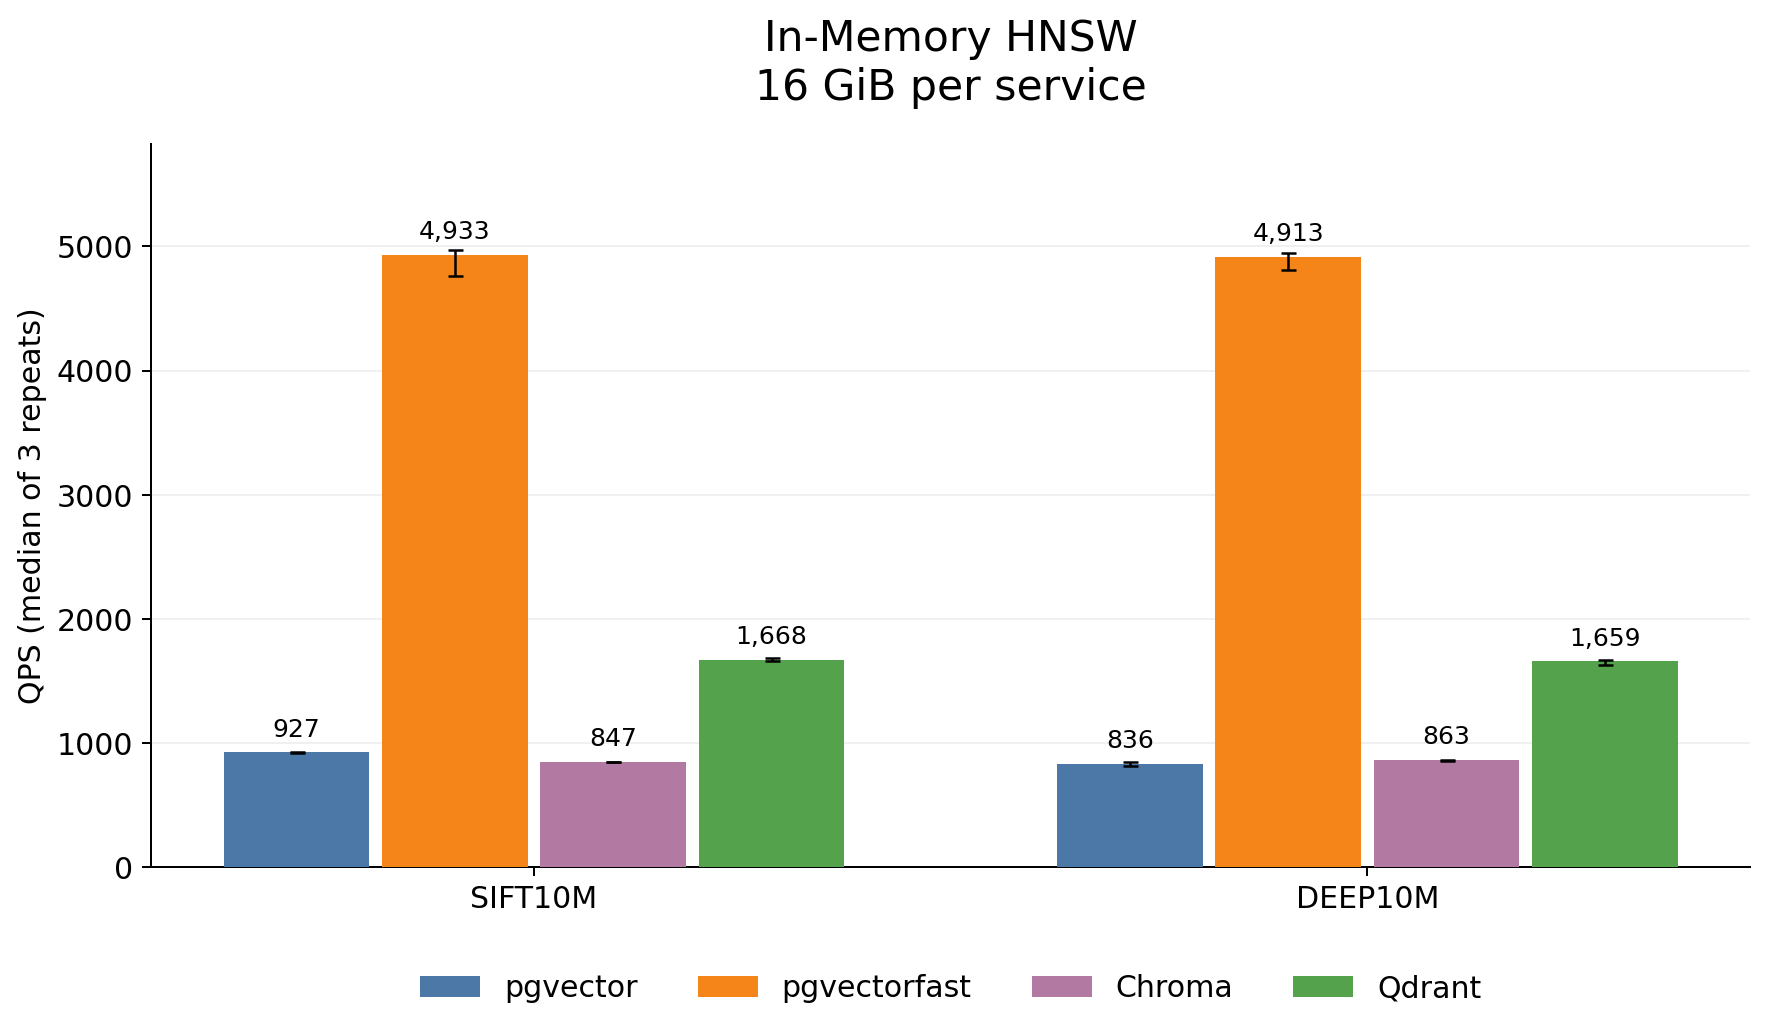
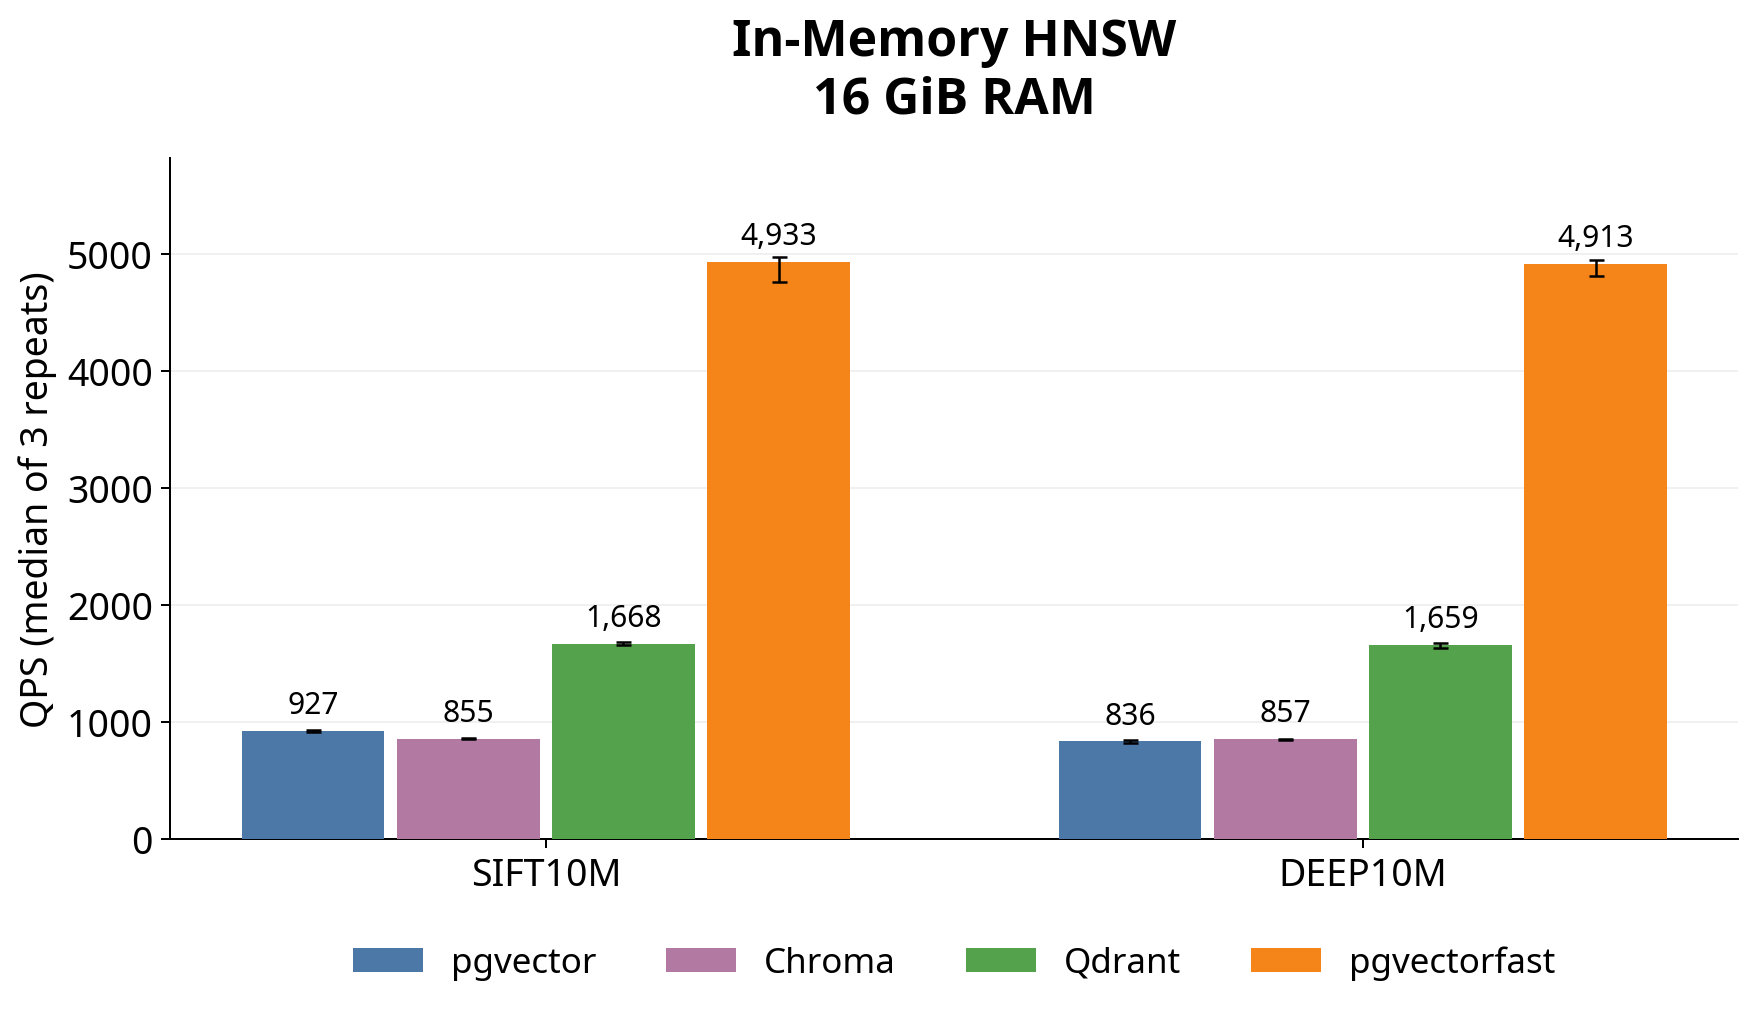
Plot Chroma paging results and enlarge benchmark typography

diff --git a/bench/hnsw/summarize.py b/bench/hnsw/summarize.py
@@ -15,9 +15,10 @@ sys.path.insert(0, str(Path(__file__).resolve().parents[1]))
 from plot_style import PALETTE, apply_style, new_chart, add_legend, save_chart
 
 STORES = ['pgvector', 'pgvectorfast', 'chroma', 'qdrant']
+CHART_STORES = ['pgvector', 'chroma', 'qdrant', 'pgvectorfast']
 NAMES = {'pgvector': 'pgvector', 'pgvectorfast': 'pgvectorfast',
          'chroma': 'Chroma', 'qdrant': 'Qdrant'}
-COLORS = PALETTE[:4]
+COLORS = [PALETTE[i] for i in (0, 2, 3, 1)]
 DATASETS = ['sift10m', 'deep10m']
 
 
@@ -76,6 +77,45 @@ def summarize(root):
     return rows
 
 
+def chart_results(root, rows):
+    """Use the Chroma rerun in figures; retain the original no-swap tables."""
+    selected = [dict(row) for row in rows]
+    rerun = root / 'chroma-paging'
+    if not rerun.is_dir():
+        return selected, False
+    for row in selected:
+        if row['store'] != 'chroma':
+            continue
+        mode = 'inmem' if row['mode'] == 'inmem' else 'paging'
+        result = json.loads((rerun / f"chroma-{row['dataset']}-{mode}.json").read_text())
+        assert result['outcome'] == 'ok'
+        assert result['count'] == 10_000_000
+        assert result['query_order_seed'] == 20261115
+        assert result['ef_search'] == row['ef_search']
+        assert result['query_range'] == [4000, 10000 if mode == 'inmem' else 5000]
+        assert len(result['repeats']) == 3
+        assert {r['queries'] for r in result['repeats']} == {6000 if mode == 'inmem' else 1000}
+        recalls = [r['recall_at_10'] for r in result['repeats']]
+        assert max(recalls) - min(recalls) <= .001
+        for stats in (result['memory_before'], result['memory_after']):
+            assert int(stats['memory.max']) == (16 if mode == 'inmem' else 2) * 1024**3
+            assert int(stats['memory.swap.max']) == (0 if mode == 'inmem' else 16) * 1024**3
+        if mode == 'paging':
+            assert int(result['memory_after']['memory.swap.current']) > 0
+            assert result['timed_read_bytes'] >= 64 * 1024**2
+        row['outcome'] = 'ok'
+        for field in ('qps', 'mean_ms', 'median_ms', 'p95_ms', 'p99_ms', 'recall_at_10'):
+            row[field] = statistics.median(r[field] for r in result['repeats'])
+        row['qps_min'] = min(r['qps'] for r in result['repeats'])
+        row['qps_max'] = max(r['qps'] for r in result['repeats'])
+    for dataset in DATASETS:
+        for mode in ('inmem', 'oom'):
+            recalls = [r['recall_at_10'] for r in selected
+                       if r['dataset'] == dataset and r['mode'] == mode]
+            assert max(recalls) - min(recalls) <= .01
+    return selected, True
+
+
 def main():
     p = argparse.ArgumentParser(description=__doc__)
     p.add_argument('--results', type=Path, required=True)
@@ -107,15 +147,16 @@ def main():
         lines += ['']
     (a.results / 'tables.md').write_text('\n'.join(lines))
     a.assets.mkdir(parents=True, exist_ok=True)
+    plotted, has_paging = chart_results(a.results, rows)
     apply_style()
-    for mode, title, budget in [('inmem', 'In-Memory HNSW', '16 GiB per service'),
-                                ('oom', 'Larger-Than-Memory HNSW', '2 GiB per service, OS swap disabled')]:
+    for mode, title, budget in [('inmem', 'In-Memory HNSW', '16 GiB RAM'),
+                                ('oom', 'Larger-Than-Memory HNSW', '2 GiB RAM')]:
         fig, ax = new_chart(title, budget)
         xpos = np.arange(2)
         width = .19
-        peak = max(r.get('qps', 0) for r in rows if r['mode'] == mode)
-        for j, store in enumerate(STORES):
-            selected = [next(r for r in rows if r['mode'] == mode
+        peak = max(r.get('qps', 0) for r in plotted if r['mode'] == mode)
+        for j, store in enumerate(CHART_STORES):
+            selected = [next(r for r in plotted if r['mode'] == mode
                         and r['dataset'] == ds and r['store'] == store) for ds in DATASETS]
             values = [r.get('qps', float('nan')) for r in selected]
             ranges = [[r['qps'] - r['qps_min'] if r['outcome'] == 'ok' else 0 for r in selected],
@@ -125,15 +166,21 @@ def main():
                           yerr=ranges, error_kw={'capsize': 3, 'elinewidth': 1}, zorder=3)
             for x, bar, r in zip(xs, bars, selected):
                 if r['outcome'] == 'ok':
-                    ax.text(x, bar.get_height()+peak*.018, f"{r['qps']:,.0f}",
-                            ha='center', va='bottom', fontsize=10)
+                    label = f"{r['qps']:,.1f}" if mode == 'oom' else f"{r['qps']:,.0f}"
+                    ax.text(x, bar.get_height()+peak*.018, label,
+                            ha='center', va='bottom', fontsize=12)
                 else:
                     ax.text(x, peak*.025, 'OOM', ha='center', va='bottom',
-                            color=COLORS[j], weight='bold', fontsize=11)
+                            color=COLORS[j], weight='bold', fontsize=12)
         ax.set_ylabel('QPS (median of 3 repeats)')
         ax.set_xticks(xpos, ['SIFT10M', 'DEEP10M'])
         ax.set_ylim(0, peak*1.18)
         add_legend(ax, 4)
+        if mode == 'oom':
+            note = ('Chroma: 16 GiB NVMe swap; other systems: swap disabled'
+                    if has_paging else 'OS swap disabled')
+            ax.text(.5, -.24, note, transform=ax.transAxes,
+                    ha='center', va='top', fontsize=12)
         save_chart(fig, a.assets / f'hnsw_{mode}.png')
 
 

diff --git a/bench/plot_style.py b/bench/plot_style.py
@@ -7,11 +7,11 @@ BASELINE_COLOR, FAST_COLOR = PALETTE[:2]
 
 def apply_style():
     plt.rcParams.update({
-        'font.family': 'DejaVu Sans', 'font.size': 12,
-        'axes.titlesize': 17, 'axes.titleweight': 'normal',
-        'axes.labelsize': 12, 'axes.labelweight': 'normal',
-        'xtick.labelsize': 12, 'ytick.labelsize': 12,
-        'legend.fontsize': 12, 'legend.frameon': False,
+        'font.family': 'Noto Sans', 'font.size': 15,
+        'axes.titlesize': 20, 'axes.titleweight': 'semibold',
+        'axes.labelsize': 15, 'axes.labelweight': 'normal',
+        'xtick.labelsize': 15, 'ytick.labelsize': 15,
+        'legend.fontsize': 14, 'legend.frameon': False,
         'figure.facecolor': 'white', 'axes.facecolor': 'white',
         'axes.edgecolor': 'black', 'axes.linewidth': .8,
         'axes.spines.top': False, 'axes.spines.right': False,
@@ -24,7 +24,7 @@ def apply_style():
 
 def new_chart(title, subtitle):
     fig, ax = plt.subplots(figsize=(10, 6))
-    ax.set_title(f'{title}\n{subtitle}', fontsize=17, pad=18)
+    ax.set_title(f'{title}\n{subtitle}', pad=18)
     ax.grid(axis='y', alpha=.18, zorder=0)
     return fig, ax
 

diff --git a/bench/plot_other_figures.py b/bench/plot_other_figures.py
@@ -32,7 +32,7 @@ def plot_ivfflat(data, assets):
                 reduction = 100 * (1 - value / row['pgvector_median_ms'])
                 text += f'\n(-{reduction:.1f}%)'
             ax.text(bar.get_x() + bar.get_width()/2, value + peak*.018,
-                    text, ha='center', va='bottom', fontsize=10)
+                    text, ha='center', va='bottom', fontsize=12)
     ax.set_xticks(xs, [f"{r['name']} ({r['dimensions']}D)\n"
                       f"Recall@3 = {r['recall_at_3']:.2f}" for r in datasets])
     ax.set_ylabel('Median query latency (ms)')
@@ -54,7 +54,7 @@ def plot_analytical(data, assets):
         last = bars[-1]
         ax.text(last.get_x()+last.get_width()/2, last.get_height()+.05,
                 f'{last.get_height():.2f}x', ha='center', va='bottom',
-                rotation=90, fontsize=10)
+                rotation=90, fontsize=12)
     ax.axhline(1, color='#555555', linestyle='--', linewidth=1.1,
                label='Stock PostgreSQL (1.00x)', zorder=4)
     ax.set_xticks(xs, [str(n) for n in sizes])

diff --git a/bench/hnsw/README.md b/bench/hnsw/README.md
@@ -119,6 +119,10 @@ across engines for the same dataset and memory budget.
 ```
 
 This exports the two HNSW charts, a CSV summary, and Markdown result tables.
+When `chroma-paging/` is present in the results directory, the charts use its
+latest Chroma in-memory and paging measurements, with the swap settings labeled
+on the larger-than-memory figure. The CSV and tables retain the original
+four-system no-swap results.
 
 All four README figures share the fonts, colors, and layout helpers in
 `bench/plot_style.py`. Regenerate the IVFFlat and analytical-query figures from
@@ -127,3 +131,6 @@ their recorded historical values in `bench/figure_data.json` with:
 ```sh
 /tmp/hnsw-venv/bin/python bench/plot_other_figures.py --assets assets
 ```
+
+The figures use Noto Sans from GitHub's Markdown font stack. Install it before
+rendering (`fonts-noto-core` on Debian/Ubuntu).

diff --git a/BENCHMARKS.md b/BENCHMARKS.md
@@ -4,6 +4,11 @@ The HNSW comparison uses pgvectorfast 0.2.1, upstream pgvector 0.8.7,
 Chroma 1.5.9, and Qdrant 1.20.1 on the same SIFT10M (128D) and DEEP10M (96D)
 vectors. The IVFFlat and SQL operator results below are from earlier runs.
 
+The README figures use the latest Chroma rerun: 855.1 / 856.7 QPS at 16 GiB RAM
+and 14.2 / 13.6 QPS at 2 GiB RAM with 16 GiB of NVMe swap (SIFT10M / DEEP10M).
+The other systems' plotted measurements used no swap. The original no-swap
+tables are retained below, followed by the Chroma rerun's full results.
+
 ## HNSW setup
 
 - Hardware: Intel Core i9-13900K, 62 GiB host RAM, Samsung 980 PRO NVMe.

diff --git a/README.md b/README.md
@@ -26,7 +26,7 @@ Based on [pgvector](https://github.com/pgvector/pgvector/), pgvectorfast is a st
 
 See [Detailed Benchmark Results](BENCHMARKS.md) for measured recall, latency breakdowns, and experimental configurations.
 
-The [Chroma paging rerun](BENCHMARKS.md#chroma-with-os-paging) reports 2 GiB RAM with 16 GiB of NVMe swap.
+The HNSW figures include the latest [Chroma rerun](BENCHMARKS.md#chroma-with-os-paging), including its successful 2 GiB RAM run with 16 GiB of NVMe swap. The other systems' plotted runs had swap disabled.
 
 ## How It Works
 
